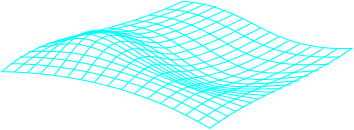
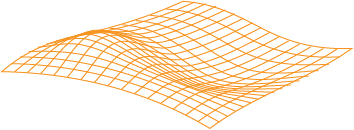
UI/style changes

Changed region(s): [[0.0, 0.0, 1.0, 0.9846]]

diff --git a/src/components/VisualizationPanel/VisualizationPanel.jsx b/src/components/VisualizationPanel/VisualizationPanel.jsx
@@ -1,4 +1,4 @@
-import { Background } from '../index';
+import { Background, Title } from '../index';
 import * as styles from './VisualizationPanel.module.css';
 import '@esri/calcite-components/dist/components/calcite-slider';
 import '@esri/calcite-components/dist/components/calcite-switch';
@@ -12,6 +12,7 @@ import {
   CalciteSlider,
   CalciteSwitch
 } from '@esri/calcite-components-react';
+import { variables } from '../../config';
 import { useEffect, useState } from 'react';
 import VoxelSlice from '@arcgis/core/layers/voxel/VoxelSlice';
 
@@ -35,6 +36,7 @@ const getSlice = (orientation, value) => {
 
 const VisualizationPanel = ({
   selectedVariable,
+  setSelectedVariable,
   selectedVisualization,
   setSelectedVisualization,
   exaggeration,
@@ -92,6 +94,27 @@ const VisualizationPanel = ({
 
   return (
     <Background title='Visualization' size='small'>
+      <Title text='Variables'></Title>
+      <CalciteRadioButtonGroup
+        name='pressure-group'
+        layout='vertical'
+        scale='s'
+        onCalciteRadioButtonChange={(event) => {
+          const variable = variables.filter((v) => v.name === event.target.value)[0];
+          setSelectedVariable(variable);
+        }}
+      >
+        {variables.map((variable, index) => {
+          const checked = selectedVariable.name === variable.name ? { checked: true } : undefined;
+          return (
+            <CalciteLabel key={index} layout='inline' className={styles.label}>
+              <CalciteRadioButton value={variable.name} {...checked} scale='s'></CalciteRadioButton>
+              {variable.name}
+            </CalciteLabel>
+          );
+        })}
+      </CalciteRadioButtonGroup>
+      <Title text='Rendering'></Title>
       <CalciteRadioButtonGroup
         name='visualization-group'
         layout='vertical'
@@ -202,7 +225,7 @@ const VisualizationPanel = ({
       ) : (
         ''
       )}
-      {/* <div className="separator"></div> */}
+      <div className='separator'></div>
       <div>
         <CalciteLabel
           className={styles.label}
@@ -260,21 +283,23 @@ const VisualizationPanel = ({
           ''
         )}
       </div>
-      {/* <div className="separator"></div> */}
+      <div className='separator'></div>
       <CalciteLabel className={styles.label}>Vertical exaggeration</CalciteLabel>
-      <CalciteSlider
-        labelHandles
-        min='1'
-        max='20'
-        scale='m'
-        value={exaggeration}
-        snap
-        step='1'
-        onCalciteSliderInput={(event) => {
-          const value = event.target.value ? event.target.value : 1;
-          setExaggeration(value);
-        }}
-      ></CalciteSlider>
+      <div className={styles.slices}>
+        <CalciteSlider
+          labelHandles
+          min='1'
+          max='20'
+          scale='m'
+          value={exaggeration}
+          snap
+          step='1'
+          onCalciteSliderInput={(event) => {
+            const value = event.target.value ? event.target.value : 1;
+            setExaggeration(value);
+          }}
+        ></CalciteSlider>
+      </div>
     </Background>
   );
 };

diff --git a/src/components/MenuPanel/MenuPanel.jsx b/src/components/MenuPanel/MenuPanel.jsx
@@ -1,21 +1,12 @@
 import { Background } from '../index';
-import * as styles from './MeasurementsPanel.module.css';
+import * as styles from './MenuPanel.module.css';
 import '@esri/calcite-components/dist/components/calcite-label';
-import '@esri/calcite-components/dist/components/calcite-radio-button-group';
-import '@esri/calcite-components/dist/components/calcite-radio-button';
 import '@esri/calcite-components/dist/components/calcite-switch';
-import {
-  CalciteLabel,
-  CalciteRadioButtonGroup,
-  CalciteRadioButton,
-  CalciteSwitch
-} from '@esri/calcite-components-react';
-import { variables } from '../../config';
+import { CalciteLabel, CalciteSwitch } from '@esri/calcite-components-react';
+
 import { useEffect, useRef } from 'react';
 
-const MeasurementsPanel = ({
-  selectedVariable,
-  setSelectedVariable,
+const Menu = ({
   setLegendContainer,
   setEnableGrid,
   enableGrid,
@@ -29,27 +20,7 @@ const MeasurementsPanel = ({
     setLegendContainer(legendContainerRef.current);
   }, [legendContainerRef]);
   return (
-    <Background title='Variables' size='small'>
-      <CalciteRadioButtonGroup
-        name='pressure-group'
-        layout='vertical'
-        scale='s'
-        onCalciteRadioButtonChange={(event) => {
-          const variable = variables.filter((v) => v.name === event.target.value)[0];
-          setSelectedVariable(variable);
-        }}
-      >
-        {variables.map((variable, index) => {
-          const checked = selectedVariable.name === variable.name ? { checked: true } : undefined;
-          return (
-            <CalciteLabel key={index} layout='inline' className={styles.label}>
-              <CalciteRadioButton value={variable.name} {...checked} scale='s'></CalciteRadioButton>
-              {variable.name}
-            </CalciteLabel>
-          );
-        })}
-      </CalciteRadioButtonGroup>
-
+    <Background title='' size='small'>
       <div className={styles.variableInfo}>
         <CalciteLabel
           className={styles.label}
@@ -87,11 +58,15 @@ const MeasurementsPanel = ({
           <CalciteSwitch scale='m' checked={displayFault ? true : undefined}></CalciteSwitch>
         </CalciteLabel>
       </div>
+      <div className='separator'></div>
       <div className={styles.overviewMap}>
-        <img src='./assets/overview-map.png'></img>
+        <div>Geological model displaying soil lithology and permeability in Darmstadt, Hessen, Germany.</div>
+        <div>
+          <img src='./assets/overview-map.png'></img>
+        </div>
       </div>
     </Background>
   );
 };
 
-export default MeasurementsPanel;
+export default Menu;

diff --git a/src/App/App.jsx b/src/App/App.jsx
@@ -1,15 +1,5 @@
 import { useState } from 'react';
-import {
-  Map,
-  Title,
-  MeasurementsPanel,
-  VisualizationPanel,
-  Legend,
-  VoxelLayer,
-  Scale,
-  Grid,
-  Fault
-} from '../components';
+import { Map, Title, MenuPanel, VisualizationPanel, Legend, VoxelLayer, Scale, Grid, Fault } from '../components';
 import { variables } from '../config';
 import * as styles from './App.module.css';
 
@@ -64,7 +54,7 @@ export const App = () => {
         </header>
         <div className={styles.appContent}>
           <div className={styles.leftPane}>
-            <MeasurementsPanel
+            <MenuPanel
               selectedVariable={selectedVariable}
               setSelectedVariable={setSelectedVariable}
               setLegendContainer={setLegendContainer}
@@ -74,11 +64,12 @@ export const App = () => {
               setDisplayLegend={setDisplayLegend}
               displayFault={displayFault}
               setDisplayFault={setDisplayFault}
-            ></MeasurementsPanel>
+            ></MenuPanel>
           </div>
           <div className={styles.rightPane}>
             <VisualizationPanel
               selectedVariable={selectedVariable}
+              setSelectedVariable={setSelectedVariable}
               selectedVisualization={selectedVisualization}
               setSelectedVisualization={setSelectedVisualization}
               exaggeration={exaggeration}
@@ -112,10 +103,9 @@ export const App = () => {
             </a>
             .
           </p>
-          <p>
-            Powered by{' '}
+          <p className={styles.esriLogo}>
             <a href='https://www.esri.com/en-us/home' target='_blank'>
-              Esri
+              <img src='./assets/esri_science_of_where_white.png'></img>
             </a>
           </p>
         </footer>

diff --git a/src/App/App.module.css b/src/App/App.module.css
@@ -19,12 +19,34 @@
 .appFooter {
   flex: 0 0 auto;
   font-size: var(--calcite-font-size--2);
-  padding: 10px;
-  background-color: rgba(0 0 0 / 0.3);
+  padding: 0 10px;
   pointer-events: all;
   display: flex;
   justify-content: space-between;
+  align-items: center;
   gap: 20px;
+}
+
+.esriLogo {
+  height: 30px;
+  overflow: hidden;
+}
+
+.esriLogo a {
+  border-bottom: none;
+}
+.esriLogo a:hover {
+  border-bottom: none;
+}
+
+.esriLogo:hover img {
+  border-bottom: none;
+  height: 30px;
+}
+
+.esriLogo img {
+  height: 25px;
+  transition: height 300ms;
 }
 
 .appContent {

diff --git a/src/main.css b/src/main.css
@@ -51,20 +51,20 @@ body {
 }
 
 ::-webkit-scrollbar-thumb {
-  background: rgba(0 194 194 / 0.1);
+  background: rgba(238 143 31 / 0.1);
   border: none;
   border-radius: var(--border-radius);
 }
 
 ::-webkit-scrollbar-thumb:hover {
-  background: rgba(0 194 194 / 0.8);
+  background: rgba(238 143 31 / 0.8);
 }
 
 .separator:before {
   content: '';
-  width: 80%;
+  width: 50%;
   margin: 10px auto;
-  border-top: 1px solid rgba(255 255 255 / 0.5);
+  border-top: 1px solid rgba(255 255 255 / 0.3);
   display: block;
   padding: 0 0 10px 0;
 }

diff --git a/src/components/index.js b/src/components/index.js
@@ -1,7 +1,7 @@
 export { default as Map } from './Map/Map';
 export { default as Title } from './Title/Title';
 export { default as Background } from './Background/Background';
-export { default as MeasurementsPanel } from './MeasurementsPanel/MeasurementsPanel';
+export { default as MenuPanel } from './MenuPanel/MenuPanel';
 export { default as VisualizationPanel } from './VisualizationPanel/VisualizationPanel';
 export { default as Legend } from './Legend/Legend';
 export { default as Scale } from './Scale/Scale';

diff --git a/src/components/Title/Title.module.css b/src/components/Title/Title.module.css
@@ -1,12 +1,14 @@
 h1 {
   font-size: var(--calcite-font-size-1);
   padding: 10px 0;
+  text-align: center;
 }
 
 h2 {
   font-size: var(--calcite-font-size--1);
-  padding: 5px 0;
+  padding: 15px 0 10px 0;
   margin: 0 0 5px 0;
+  text-align: left;
 }
 
 h1,
@@ -16,7 +18,6 @@ h2 {
 
 .titleBackground {
   color: white;
-  text-align: center;
   letter-spacing: 1.3px;
   text-transform: uppercase;
 }

diff --git a/src/components/Background/Background.jsx b/src/components/Background/Background.jsx
@@ -1,9 +1,7 @@
 import * as styles from './Background.module.css';
-import { Title } from '../index';
-const Background = ({ title, size, children }) => {
+const Background = ({ children }) => {
   return (
     <div className={styles.background}>
-      <Title text={title} size={size}></Title>
       <div className={styles.scroll}>{children}</div>
     </div>
   );

diff --git a/src/components/MenuPanel/MenuPanel.module.css b/src/components/MenuPanel/MenuPanel.module.css
@@ -1,0 +1,23 @@
+.label {
+  cursor: pointer;
+}
+
+.variableInfo {
+  padding: 0;
+}
+
+.centerRadioButtons {
+  justify-content: center;
+}
+
+.overviewMap {
+  display: flex;
+  gap: 10px;
+  font-size: var(--calcite-font-size--2);
+  line-height: 1.1rem;
+  font-style: italic;
+}
+
+.overviewMap img {
+  max-height: 100px;
+}

diff --git a/src/components/MenuPanel/index.js b/src/components/MenuPanel/index.js
@@ -1,0 +1,1 @@
+export * from './MenuPanel';
